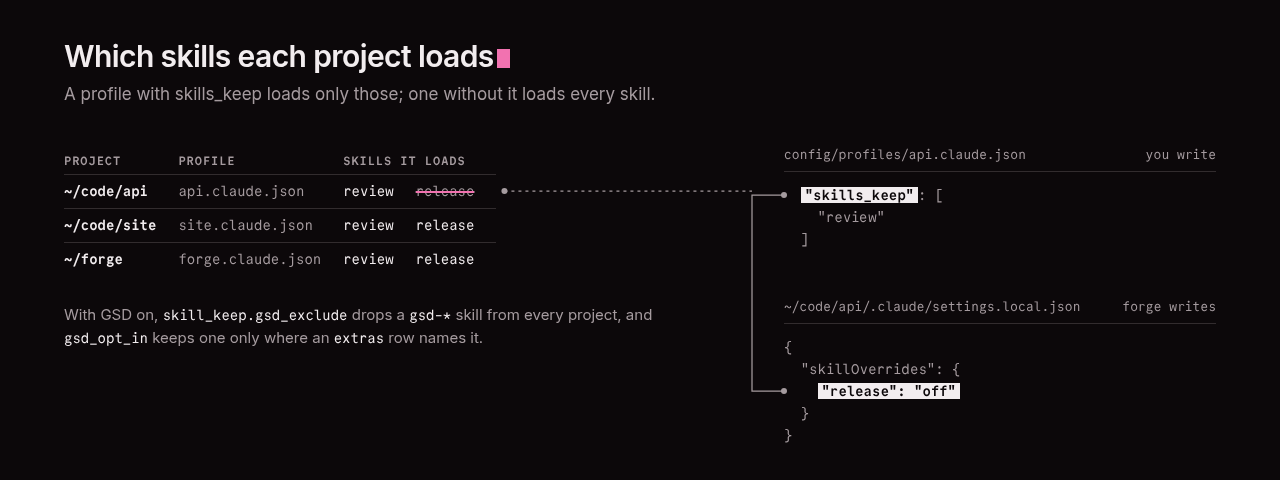
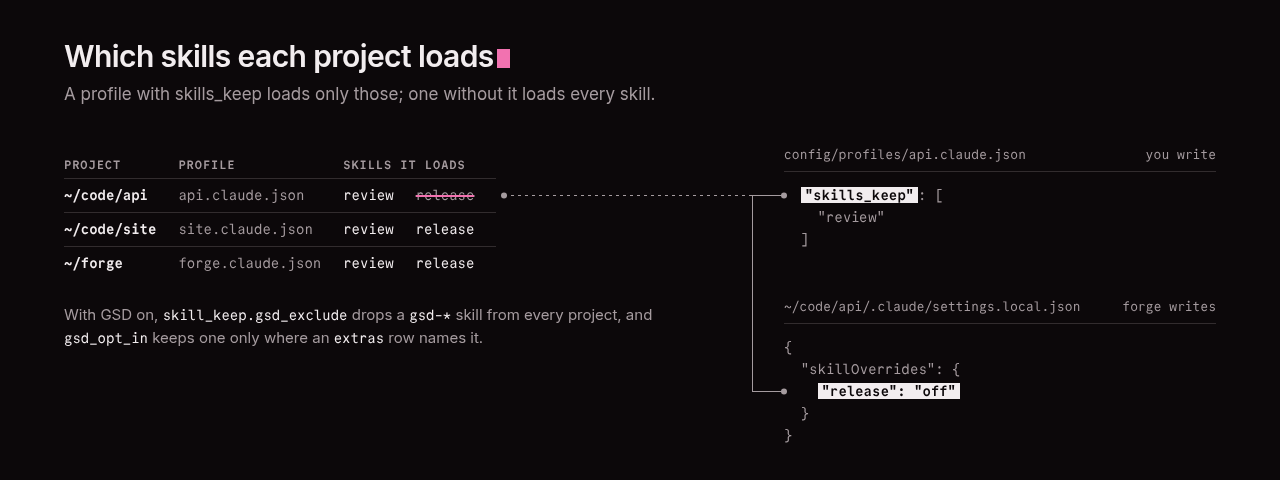
fix(docs): diagram connectors meet what they connect
fig-sync: the command blocks are now placed so their centre is exactly the row they serve, so the middle and
last rows run straight into them (they had a 1 px step), and every connector sits on a pixel centre at 1 px
with crisp edges (the verticals rendered blurred and wider than the horizontals). fig-trim: the table moves
so the struck release cell is level with the skills_keep line, so the dashed lead joins the bracket at its
top instead of ending 5 px above it. Only the four diagram PNGs change; build.py run twice gave the same
sha256 for all nine.

Changed region(s): [[0.0312, 0.3125, 0.375, 0.5625]]

diff --git a/docs/assets/src/fig-trim.html b/docs/assets/src/fig-trim.html
@@ -28,11 +28,14 @@ document.getElementById("prof").innerHTML=esc(prof.slice(a,a+3).join("\n")).repl
 document.getElementById("set").innerHTML=esc(F.files["~/code/api/.claude/settings.local.json"].trimEnd()).replace(/"release": "off"/,'<span class="ko">"release": "off"</span>');
 document.fonts.ready.then(()=>{
   const svg=document.getElementById("links"),NS="http://www.w3.org/2000/svg", add=(n,a)=>{const e=document.createElementNS(NS,n);for(const k in a)e.setAttribute(k,a[k]);svg.appendChild(e)};
-  const box=id=>document.getElementById(id).getBoundingClientRect();
+  const box=id=>document.getElementById(id).getBoundingClientRect(), P=v=>Math.round(v)+0.5;
+  // move the table so the struck release cell sits on the skills_keep line: the dashed lead then joins the bracket at its top
+  const t=document.getElementById("t"), k0=document.querySelector("#prof .ko").getBoundingClientRect(), c0=box("off");
+  t.style.top=(t.offsetTop+Math.round((k0.top+k0.height/2)-(c0.top+c0.height/2)))+"px";
   const k=document.querySelector("#prof .ko").getBoundingClientRect(), o=document.querySelector("#set .ko").getBoundingClientRect(), c=box("off");
-  const yk=k.top+k.height/2, yo=o.top+o.height/2, yc=c.top+c.height/2, x=752;
-  add("path",{d:`M784 ${yk} H${x} V${yo} H784`}); add("path",{d:`M${c.right+8} ${yc} H${x}`,"stroke-dasharray":"3 4"});
-  [[784,yk],[784,yo],[c.right+8,yc]].forEach(([cx,cy])=>add("circle",{cx,cy,r:3}));
+  const yk=P(k.top+k.height/2), yo=P(o.top+o.height/2), yc=yk, x=752.5;
+  add("path",{d:`M784 ${yk} H${x} V${yo} H784`}); add("path",{d:`M${Math.round(c.right)+8} ${yc} H${x}`,"stroke-dasharray":"3 4"});
+  [[784,yk],[784,yo],[Math.round(c.right)+8,yc]].forEach(([cx,cy])=>add("circle",{cx,cy,r:3}));
 });
 </script>
 </body></html>

diff --git a/docs/assets/src/fig-sync.html b/docs/assets/src/fig-sync.html
@@ -39,10 +39,14 @@ put(512,sy,256,0,"cmd",`<div class="p">forge sync</div><div class="d">per projec
 put(512,ky,256,0,"cmd",`<div class="p">forge skills</div><div class="d">per user: online skills, the GSD runtime, the skill links.</div>`);
 const svg=document.getElementById("links"),NS="http://www.w3.org/2000/svg";
 const add=(n,a)=>{const e=document.createElementNS(NS,n);for(const k in a)e.setAttribute(k,a[k]);svg.appendChild(e)};
-const L=(x1,y1,x2,y2,mid)=>{add("path",{d:`M${x1} ${y1} H${mid} V${y2} H${x2}`});add("circle",{cx:x1,cy:y1,r:3});add("circle",{cx:x2,cy:y2,r:3})};
+// every connector sits on a pixel centre (n + .5), so a 1 px line is one crisp pixel and two lines on one row are one line
+const P=v=>Math.round(v)+0.5;
+const L=(x1,y1,x2,y2,mid)=>{y1=P(y1);y2=P(y2);add("path",{d:y1===y2?`M${x1} ${y1} H${x2}`:`M${x1} ${y1} H${P(mid)} V${y2} H${x2}`});add("circle",{cx:x1,cy:y1,r:3});add("circle",{cx:x2,cy:y2,r:3})};
 document.fonts.ready.then(()=>{
-  const cmds=g.querySelectorAll(".cmd"), mid=e=>e.offsetTop+e.offsetHeight/2;
-  const cs=mid(cmds[0]), ck=mid(cmds[1]), ry=i=>Y+i*H+22;
+  const cmds=g.querySelectorAll(".cmd"), ry=i=>Y+i*H+22;
+  // each block is centred exactly on the row it serves: sync on the middle source row, skills on the last
+  cmds[0].style.top=(ry(1)-Math.round(cmds[0].offsetHeight/2))+"px"; cmds[1].style.top=(ry(3)-Math.round(cmds[1].offsetHeight/2))+"px";
+  const cs=ry(1), ck=ry(3);
   [0,1,2].forEach(i=>L(440,ry(i),512,cs,476)); L(440,ry(3),512,ck,476);
   [0,1,2].forEach(i=>L(768,cs,832,ry(i),800)); L(768,ck,832,ry(3),800);
 });

diff --git a/docs/assets/src/forge.css b/docs/assets/src/forge.css
@@ -42,5 +42,5 @@ table.grid tr:first-child td{border-top:0;height:26px}
 table.grid td.p{font-weight:700;color:var(--ink)}
 table.grid td.n{color:var(--ink2)}
 svg.links{position:absolute;inset:0;pointer-events:none}
-svg.links path{stroke:var(--ink2);fill:none;stroke-width:1.25}
+svg.links path{stroke:var(--ink2);fill:none;stroke-width:1;shape-rendering:crispEdges}
 svg.links circle{fill:var(--ink2)}

diff --git a/forge/publish.py b/forge/publish.py
@@ -41,10 +41,10 @@ PUBLIC_ASSETS = {
[13 lines of base64/hex data omitted]
 }
